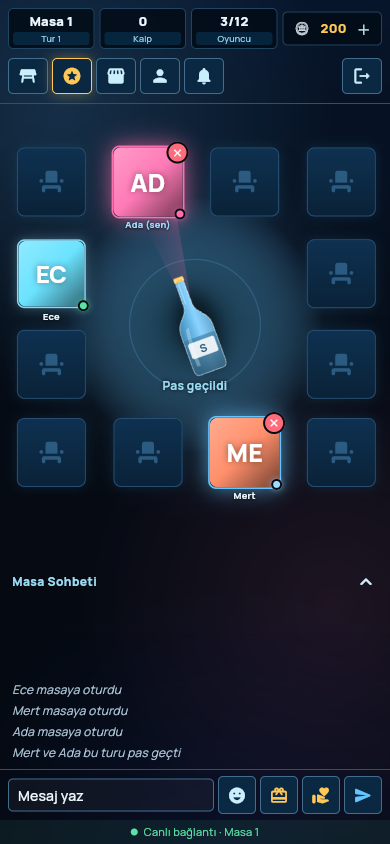
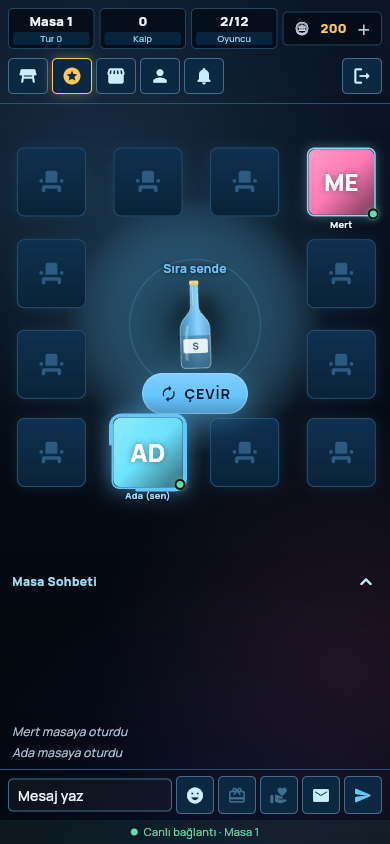
Mobil masa düzeltmesi, yeni üye ücretsiz deneme
- Telefonda ÇEVİR / Kabul / Pas düğmeleri alt koltuk sırasının arkasında
  kalıyordu: tur yazısı şişenin üstüne, düğmeler şişe ile alt sıra arasına
  ve koltukların önüne alındı; dar ekranda sığacak kadar küçülür
- Masa değiştirirken eski ekran kapanınca yeni masadan kalkılması düzeltildi
- Yeni üye ücretsiz deneme: admin'in seçtiği özellikler, ayarlanabilir gün,
  açılıp kapatılabilir (Market bölümü); DM varsayılan olarak ücretsiz
- Test: deneme hakkı ve kapatma

Claude-Session: https://claude.ai/code/session_01PGHTchEzyov8EDpvWJ1qAX

diff --git a/spectre_game/lib/game/table_screen.dart b/spectre_game/lib/game/table_screen.dart
@@ -214,7 +214,8 @@ class _TableScreenState extends State<TableScreen> {
     final two = width >= 900;
     return PopScope(
       onPopInvokedWithResult: (didPop, _) {
-        if (didPop) c.closeRoom();
+        // Masa değiştirirken (yeni masa zaten açıldıysa) eski ekran kapanınca yeni masadan kalkılmasın.
+        if (didPop && c.room?.roomId == t.roomId) c.closeRoom();
       },
       child: ListenableBuilder(
         listenable: t,
@@ -242,6 +243,7 @@ class _TableScreenState extends State<TableScreen> {
                     onSeatTap: _onSeatTap,
                     light: c.lightMode,
                     anim: c.config.animations,
+                    status: _RoundCentre(room: t, client: c, seated: seated, statusOnly: true),
                     centre: _RoundCentre(room: t, client: c, seated: seated),
                   ),
           );
@@ -535,10 +537,13 @@ class _ToolButtonState extends State<_ToolButton> {
 // ---------------------------------------------------------------------------
 
 class _RoundCentre extends StatelessWidget {
-  const _RoundCentre({required this.room, required this.client, required this.seated});
+  const _RoundCentre({required this.room, required this.client, required this.seated, this.statusOnly = false});
   final RoomState room;
   final SpectreClient client;
   final bool seated;
+
+  /// true: yalnız durum yazısı; false: yalnız düğmeler.
+  final bool statusOnly;
 
   @override
   Widget build(BuildContext context) {
@@ -601,6 +606,16 @@ class _RoundCentre extends StatelessWidget {
       );
     }
 
+    if (!statusOnly) {
+      return AnimatedSwitcher(
+        duration: SpectreMotion.normal,
+        switchInCurve: SpectreMotion.spring,
+        transitionBuilder: (c, a) => ScaleTransition(scale: a, child: FadeTransition(opacity: a, child: c)),
+        child: control == null
+            ? const SizedBox(key: ValueKey('none'), width: 1, height: 1)
+            : KeyedSubtree(key: ValueKey('${r.phase}|$myTurn|$involved|$seated'), child: control),
+      );
+    }
     return Column(mainAxisSize: MainAxisSize.min, children: [
       AnimatedSwitcher(
         duration: SpectreMotion.normal,
@@ -610,15 +625,6 @@ class _RoundCentre extends StatelessWidget {
             overflow: TextOverflow.ellipsis,
             textAlign: TextAlign.center,
             style: TextStyle(color: color, fontSize: 12, fontWeight: FontWeight.w700, shadows: const [Shadow(color: Colors.black, blurRadius: 3)])),
-      ),
-      const SizedBox(height: 4),
-      AnimatedSwitcher(
-        duration: SpectreMotion.normal,
-        switchInCurve: SpectreMotion.spring,
-        transitionBuilder: (c, a) => ScaleTransition(scale: a, child: FadeTransition(opacity: a, child: c)),
-        child: control == null
-            ? const SizedBox(key: ValueKey('none'), height: 1)
-            : FittedBox(key: ValueKey('${r.phase}|$myTurn|$involved|$seated'), fit: BoxFit.scaleDown, child: control),
       ),
     ]);
   }

diff --git a/spectre_game/lib/game/table_stage.dart b/spectre_game/lib/game/table_stage.dart
@@ -35,6 +35,7 @@ class TableStage extends StatefulWidget {
     required this.onSeatTap,
     required this.light,
     this.centre,
+    this.status,
     this.anim = const {},
   });
 
@@ -42,7 +43,11 @@ class TableStage extends StatefulWidget {
   final String meId;
   final void Function(int seat) onSeatTap;
   final bool light;
+  /// Tur düğmeleri (şişenin altında, koltukların önünde).
   final Widget? centre;
+
+  /// Tur durumu yazısı (şişenin üstünde).
+  final Widget? status;
 
   /// Yönetim panelinden animasyon ayarları.
   final Map<String, dynamic> anim;
@@ -97,7 +102,10 @@ class _TableStageState extends State<TableStage> with TickerProviderStateMixin {
       aspectRatio: kStageAspect,
       child: LayoutBuilder(builder: (context, box) {
         final geo = StageGeometry(box.biggest);
-        final bottleH = geo.size.height * 0.25;
+        final bottleH = geo.size.height * 0.22;
+        // Şişenin altı ile alt koltuk sırası arasındaki boşluk
+        final controlsTop = geo.center.dy + bottleH * 0.5 + 2;
+        final controlsH = (kSeatOrigins[8].$2 * geo.size.height - controlsTop - 2).clamp(24.0, 80.0);
         final r = table.round;
         final showBeam = r.phase == RoundPhase.deciding || r.phase == RoundPhase.result;
         return Stack(
@@ -145,12 +153,13 @@ class _TableStageState extends State<TableStage> with TickerProviderStateMixin {
                 ),
               ),
             ),
-            if (widget.centre != null)
+            if (widget.status != null)
               Positioned(
                 left: geo.size.width * 0.25,
                 right: geo.size.width * 0.25,
-                top: geo.center.dy + bottleH * 0.52,
-                child: widget.centre!,
+                top: geo.center.dy - bottleH * 0.5 - 22,
+                height: 20,
+                child: IgnorePointer(child: Center(child: widget.status!)),
               ),
             for (final seat in table.seats)
               _SeatSlot(
@@ -161,6 +170,15 @@ class _TableStageState extends State<TableStage> with TickerProviderStateMixin {
                 clock: _clock,
                 isMe: seat.player?.userId == widget.meId,
                 onTap: () => widget.onSeatTap(seat.index),
+              ),
+            // Düğmeler koltukların önünde çizilir; dar ekranda sığacak kadar küçülür.
+            if (widget.centre != null)
+              Positioned(
+                left: geo.size.width * 0.24,
+                right: geo.size.width * 0.24,
+                top: controlsTop,
+                height: controlsH,
+                child: Center(child: FittedBox(fit: BoxFit.scaleDown, child: widget.centre!)),
               ),
             Positioned.fill(child: IgnorePointer(child: _FxLayer(key: _fx, geo: geo, light: widget.light, anim: widget.anim))),
           ],

diff --git a/spectre_game/lib/admin/pages_commerce.dart b/spectre_game/lib/admin/pages_commerce.dart
@@ -267,6 +267,44 @@ class _MarketAdminPageState extends State<MarketAdminPage> {
                         ),
                     ]),
             ),
+            Builder(builder: (context) {
+              final st = (d['settings'] as Map).cast<String, dynamic>();
+              final trial = [for (final x in (st['trialFeatures'] as List? ?? const [])) '$x'];
+              Future<void> put(Map<String, dynamic> v) =>
+                  act(context, () => admin.put('/settings', {'settings': v, 'what': 'Ücretsiz deneme'}), then: _bump);
+              return SectionCard(
+                title: 'Yeni üye ücretsiz deneme',
+                icon: Icons.card_giftcard_rounded,
+                trailing: Switch(value: st['trialEnabled'] == true, onChanged: (v) => put({'trialEnabled': v})),
+                child: Column(crossAxisAlignment: CrossAxisAlignment.start, children: [
+                  Row(children: [
+                    const Text('Süre: '),
+                    for (final dd in const [1, 2, 3, 7])
+                      Padding(
+                        padding: const EdgeInsets.only(right: 6),
+                        child: ChoiceChip(
+                          label: Text('$dd gün'),
+                          selected: jn(st['trialDays']) == dd,
+                          onSelected: st['trialEnabled'] == true ? (_) => put({'trialDays': dd}) : null,
+                        ),
+                      ),
+                  ]),
+                  const SizedBox(height: 8),
+                  const Text('Denemede açılacak özellikler:', style: TextStyle(fontSize: 12, color: SpectreColors.muted)),
+                  const SizedBox(height: 6),
+                  Wrap(spacing: 6, runSpacing: 6, children: [
+                    for (final f in features)
+                      FilterChip(
+                        label: Text('${f['name']}'),
+                        selected: trial.contains(f['key']),
+                        onSelected: st['trialEnabled'] == true
+                            ? (v) => put({'trialFeatures': v ? [...trial, '${f['key']}'] : trial.where((x) => x != f['key']).toList()})
+                            : null,
+                      ),
+                  ]),
+                ]),
+              );
+            }),
             SectionCard(
               title: 'Özellikler ve kilitler',
               icon: Icons.lock_person_rounded,

diff --git a/spectre_game/server/test/server_test.dart b/spectre_game/server/test/server_test.dart
@@ -610,4 +610,25 @@ void main() {
       expect(sent.where((x) => x.startsWith('dikkat@ornek.com|') && x.contains('başarısız')).length, 1);
     });
   });
+
+  test('yeni üye ücretsiz deneme: seçilen özellikler, ayarlanan gün; kapatılabilir', () async {
+    final (_, a) = await call('POST', '/admin/api/v1/login', body: {'username': 'patron', 'password': 'cok-gizli-123'});
+    final admin = a['token'] as String;
+    await call('POST', '/admin/api/v1/features', token: admin, body: {'key': 'groupGift', 'locked': true});
+    await call('PUT', '/admin/api/v1/settings', token: admin, body: {
+      'settings': {'trialEnabled': true, 'trialDays': 2, 'trialFeatures': ['groupGift']}
+    });
+    final (_, u) = await call('POST', '/api/v1/auth/register', body: {'username': 'denemeci', 'password': 'sifre-7777'});
+    final ent = ((u['me'] as Map)['entitlements'] as Map);
+    expect(ent.keys, contains('groupGift'));
+    final until = DateTime.parse('${ent['groupGift']}');
+    expect(until.difference(DateTime.now()).inHours, inInclusiveRange(47, 48));
+    expect((u['me'] as Map)['locked'], isNot(contains('groupGift')));
+    expect((u['me'] as Map)['locked'], isNot(contains('dm')), reason: 'DM varsayılan olarak ücretsiz');
+
+    await call('PUT', '/admin/api/v1/settings', token: admin, body: {'settings': {'trialEnabled': false}});
+    final (_, u2) = await call('POST', '/api/v1/auth/register', body: {'username': 'denemesiz', 'password': 'sifre-8888'});
+    expect(((u2['me'] as Map)['entitlements'] as Map), isNot(contains('groupGift')));
+    await call('POST', '/admin/api/v1/features', token: admin, body: {'key': 'groupGift', 'locked': false});
+  });
 }

diff --git a/spectre_game/server/lib/src/server.dart b/spectre_game/server/lib/src/server.dart
@@ -691,6 +691,23 @@ class SpectreServer {
     return granted;
   }
 
+  /// Yeni üyeye admin'in seçtiği özellikler için ücretsiz deneme.
+  void _grantTrial(UserRec u) {
+    final s = store.settings;
+    if (!s.trialEnabled || s.trialFeatures.isEmpty || u.guest) return;
+    final until = DateTime.now().add(Duration(days: s.trialDays));
+    final names = <String>[];
+    for (final k in s.trialFeatures) {
+      final f = store.feature(k);
+      if (f == null) continue;
+      u.entitlements[k] = until;
+      names.add(f.name);
+    }
+    if (names.isEmpty) return;
+    store.markDirty();
+    _notify(u.id, 'order', '${s.trialDays} gün ücretsiz deneme: ${names.join(', ')}');
+  }
+
   /// Süresi dolan hakları kaldırır, bitmeden 3 gün önce uyarır.
   void checkExpiry(DateTime now) {
     for (final u in store.users.values) {
@@ -1130,6 +1147,7 @@ class SpectreServer {
         if (store.userByName(username) != null) throw ApiError(409, 'Bu kullanıcı adı alınmış');
         final u = _createUser(username, display.isEmpty ? username : _clip(display, 20), password, email: email);
         _sendVerify(u, welcome: true);
+        _grantTrial(u);
         return {'token': _issue(u.id, admin: false), 'me': meJson(u)};
       case 'authForgot' when m == 'POST':
         final b = await _body(req);

diff --git a/spectre_game/server/lib/src/store.dart b/spectre_game/server/lib/src/store.dart
@@ -575,6 +575,10 @@ class Settings {
   int autoDelayMs = 900;
   // Oturum bildirimleri
   bool mailOnLogin = false;
+  // Yeni üye ücretsiz deneme
+  bool trialEnabled = true;
+  int trialDays = 2;
+  List<String> trialFeatures = [];
   bool mailOnLoginFail = true;
   int dailyRewardCoins = 50;
   int startingCoins = 200;
@@ -707,6 +711,9 @@ class Settings {
         'autoDelayMs': autoDelayMs,
         'mailOnLogin': mailOnLogin,
         'mailOnLoginFail': mailOnLoginFail,
+        'trialEnabled': trialEnabled,
+        'trialDays': trialDays,
+        'trialFeatures': trialFeatures,
       };
 
   Map<String, dynamic> toStorageJson() => {
@@ -844,6 +851,9 @@ class Settings {
     greetPerMinute = i('greetPerMinute', 1, 60) ?? greetPerMinute;
     autoDelayMs = i('autoDelayMs', 200, 10000) ?? autoDelayMs;
     mailOnLogin = b('mailOnLogin') ?? mailOnLogin;
+    trialEnabled = b('trialEnabled') ?? trialEnabled;
+    trialDays = i('trialDays', 1, 365) ?? trialDays;
+    trialFeatures = l('trialFeatures') ?? trialFeatures;
     mailOnLoginFail = b('mailOnLoginFail') ?? mailOnLoginFail;
     supportEnabled = b('supportEnabled') ?? supportEnabled;
     supportBotName = s('supportBotName', 60) ?? supportBotName;
